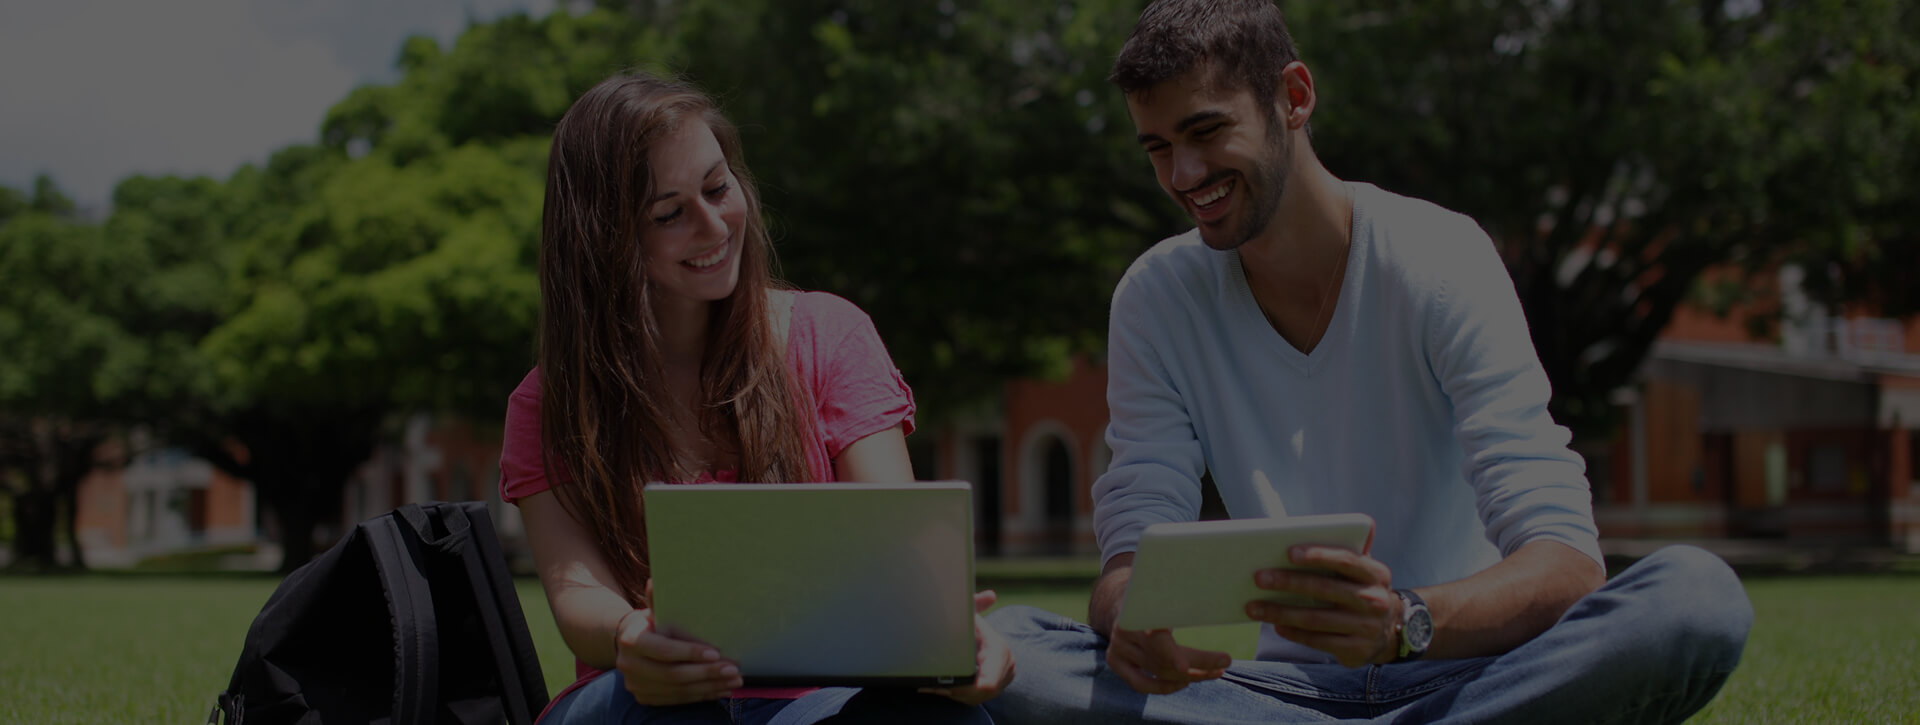
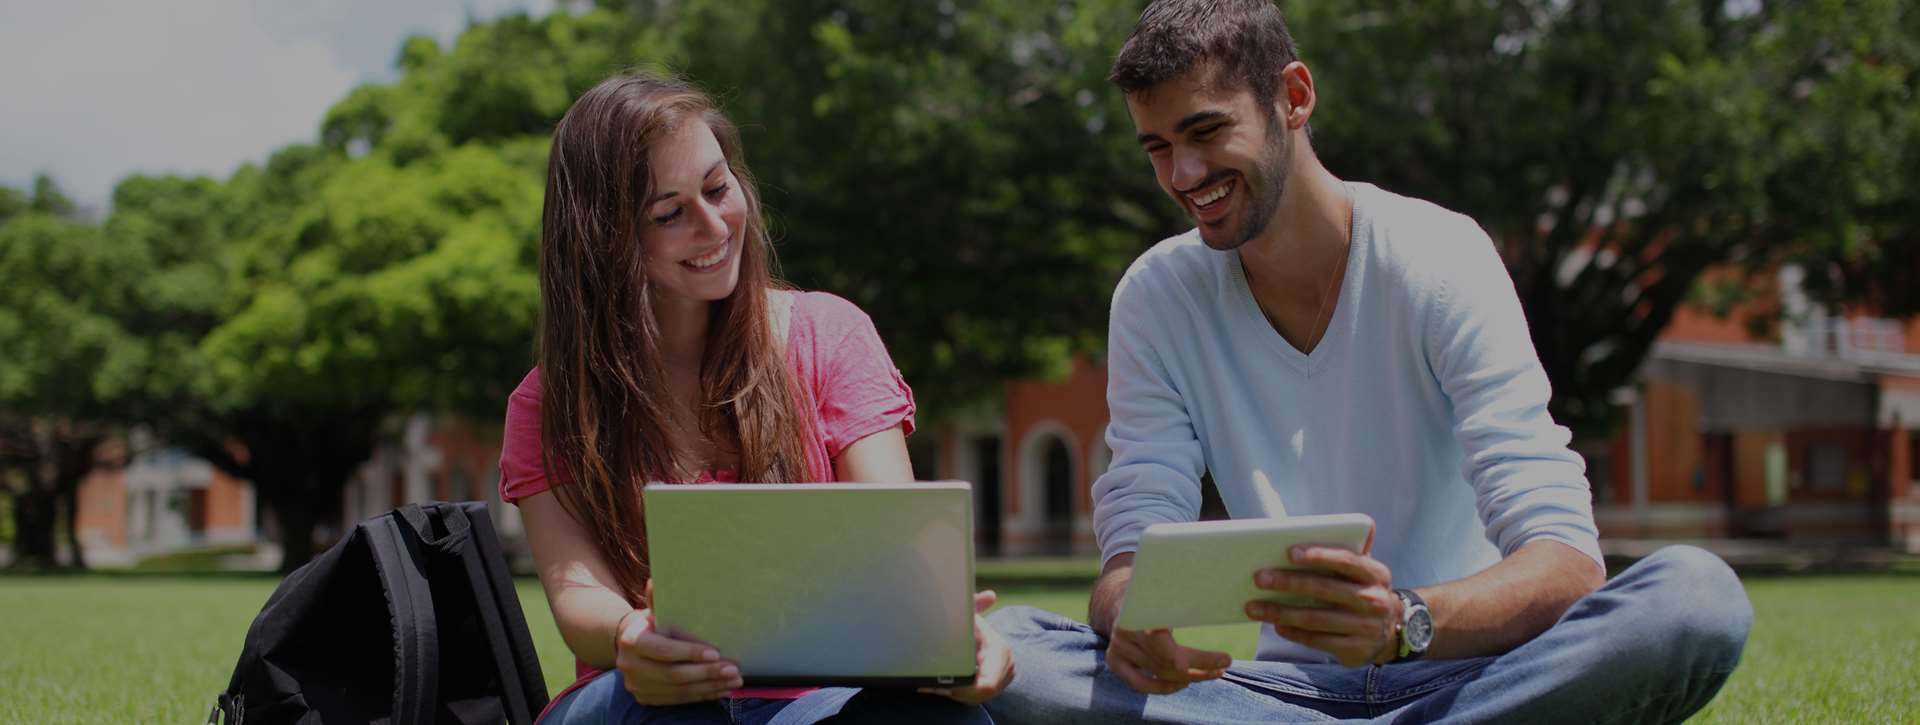
Some fixes

diff --git a/Zbang.Cloudents.Mvc4WebRole/Content/Home.less b/Zbang.Cloudents.Mvc4WebRole/Content/Home.less
@@ -11,7 +11,7 @@
     &:before {
         .pseudo;
         margin: 0 auto;
-        background: url(/Images/bg6.jpg?v=1) no-repeat center center;
+        background: url(/Images/bg6.jpg?v=2) no-repeat center center;
         width: 100%;
         height: 100%;
 

diff --git a/Zbang.Cloudents.Mvc4WebRole/Content/Home.css b/Zbang.Cloudents.Mvc4WebRole/Content/Home.css
@@ -17,7 +17,7 @@
   content: '';
   display: inline-block;
   margin: 0 auto;
-  background: url(/Images/bg6.jpg?v=1) no-repeat center center;
+  background: url(/Images/bg6.jpg?v=2) no-repeat center center;
   width: 100%;
   height: 100%;
   position: absolute;

diff --git a/Zbang.Cloudents.Mvc4WebRole/Content/Home.rtl.css b/Zbang.Cloudents.Mvc4WebRole/Content/Home.rtl.css
@@ -17,7 +17,7 @@
   content: '';
   display: inline-block;
   margin: 0 auto;
-  background: url(/Images/bg6.jpg?v=1) no-repeat center center;
+  background: url(/Images/bg6.jpg?v=2) no-repeat center center;
   width: 100%;
   height: 100%;
   position: absolute;

diff --git a/Zbang.Zbox.WorkerRole/Jobs/DigestEmail2.cs b/Zbang.Zbox.WorkerRole/Jobs/DigestEmail2.cs
@@ -2,7 +2,6 @@
 using System.Collections.Generic;
 using System.Globalization;
 using System.Linq;
-using System.Threading;
 using System.Threading.Tasks;
 using Zbang.Zbox.Infrastructure.Consts;
 using Zbang.Zbox.Infrastructure.Enums;
@@ -58,7 +57,7 @@ namespace Zbang.Zbox.WorkerRole.Jobs
         {
             if (!ShouldRunReport())
             {
-                Thread.Sleep(TimeSpan.FromMinutes(5));
+                await Task.Delay(TimeSpan.FromMinutes(5));
                 return;
             }
             TraceLog.WriteInfo("Process mail process:" + m_DigestEmailHourBack.ToString("g"));
@@ -75,7 +74,7 @@ namespace Zbang.Zbox.WorkerRole.Jobs
                     TraceLog.WriteError(string.Format("Digest email2 report:{0} user {1}", m_DigestEmailHourBack, user), ex);
                 }
             }
-            Thread.Sleep(m_TimeToSleepAfterExecuting);
+            await Task.Delay(m_TimeToSleepAfterExecuting);
         }
 
         private async Task BuildUserReport(long userid, string email, string culture, string userName)
@@ -110,7 +109,7 @@ namespace Zbang.Zbox.WorkerRole.Jobs
             }
 
           await  m_MailComponent.GenerateAndSendEmailAsync(
-              "ram.y@outlook.com", new UpdateMailParams(updates,
+              email, new UpdateMailParams(updates,
                 new CultureInfo("en-US"), userName,
                 numOfQuestion,
                 numOfAnswers,
@@ -189,26 +188,25 @@ namespace Zbang.Zbox.WorkerRole.Jobs
 
         private bool ShouldRunReport()
         {
-            return true;
-            //if (m_DigestEmailHourBack == NotificationSettings.OnceADay)
-            //{
-            //    if (DateTime.UtcNow.Hour == 0)
-            //    {
-            //        return true;
-            //    }
-            //}
-            //if (m_DigestEmailHourBack == NotificationSettings.OnceAWeek)
-            //{
-            //    if (DateTime.UtcNow.Hour == 5 && DateTime.UtcNow.DayOfWeek == DayOfWeek.Sunday)
-            //    {
-            //        return true;
-            //    }
-            //}
-            //if (m_DigestEmailHourBack == NotificationSettings.OnEveryChange)
-            //{
-            //    return true;
-            //}
-            //return false;
+            if (m_DigestEmailHourBack == NotificationSettings.OnceADay)
+            {
+                if (DateTime.UtcNow.Hour == 0)
+                {
+                    return true;
+                }
+            }
+            if (m_DigestEmailHourBack == NotificationSettings.OnceAWeek)
+            {
+                if (DateTime.UtcNow.Hour == 5 && DateTime.UtcNow.DayOfWeek == DayOfWeek.Sunday)
+                {
+                    return true;
+                }
+            }
+            if (m_DigestEmailHourBack == NotificationSettings.OnEveryChange)
+            {
+                return true;
+            }
+            return false;
         }
         public void Stop()
         {

diff --git a/Zbang.Zbox.ViewModel/SqlQueries/Email.cs b/Zbang.Zbox.ViewModel/SqlQueries/Email.cs
@@ -66,7 +66,7 @@ order by Students desc  ";
       join zbox.box b on ub.boxid = b.boxid
       where notificationSettings = @Notification
 	  and ub.UserType in (2,3)
-      and DATEDIFF(MINUTE ,GETUTCDATE(),DATEADD(MINUTE,@NotificationTime,b.updateTime)) >0;";
+      and DATEDIFF(MINUTE ,GETUTCDATE(),DATEADD(MINUTE,@NotificationTime,b.updateTime)) > 0;";
 
         public const string GetBoxPossibleUpdateByUser =
             @" select distinct b.boxid as BoxId, b.boxname as BoxName, 

diff --git a/Zbang.Zbox.ViewModel/SqlQueries/Box.cs b/Zbang.Zbox.ViewModel/SqlQueries/Box.cs
@@ -108,7 +108,7 @@ order by name;";
 	  ,u.userid as UserId
     ,[Text] as Content
     ,q.CreationTime as creationTime
-	,(select count(*) from zbox.Answer where questionid = q.questionid) as RepliesCount
+	,(select count(*) from zbox.Answer where questionid = q.questionid and boxid = @BoxId) as RepliesCount
     FROM [Zbox].[Question] q join zbox.users u on u.userid = q.userid
     where q.BoxId = @BoxId
     order by q.[QuestionId] desc

diff --git a/Zbang.Cloudents.Mvc4WebRole/Views/Account/Resources/HomeResources.Designer.cs b/Zbang.Cloudents.Mvc4WebRole/Views/Account/Resources/HomeResources.Designer.cs
@@ -179,7 +179,7 @@ namespace Zbang.Cloudents.Mvc4WebRole.Views.Account.Resources {
         }
         
         /// <summary>
-        ///   Looks up a localized string similar to Cloudents brings it al together. Join, for.
+        ///   Looks up a localized string similar to Cloudents brings it all together. Join, for.
         /// </summary>
         public static string HomePageTitle3 {
             get {
